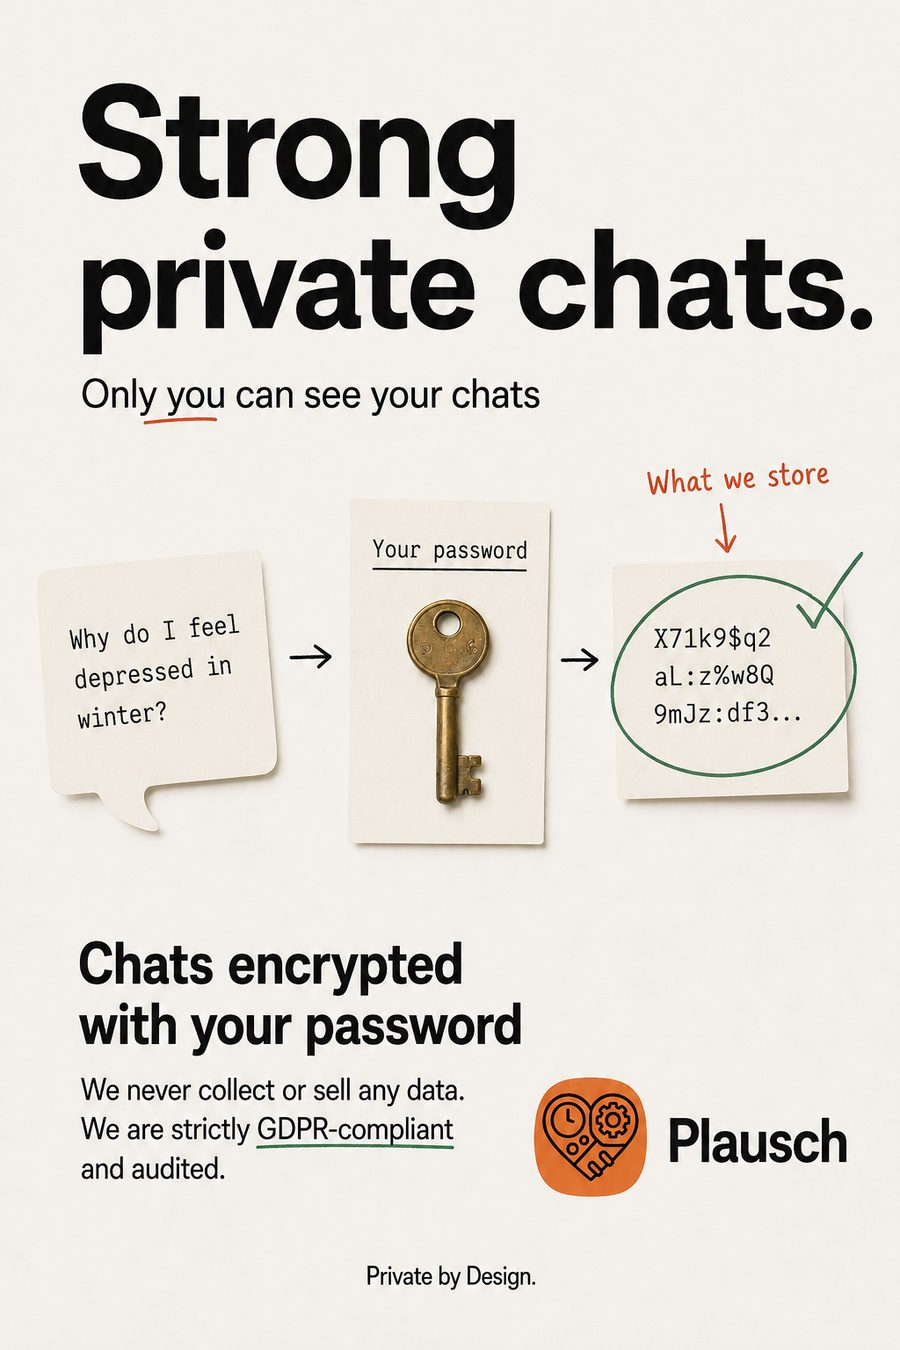
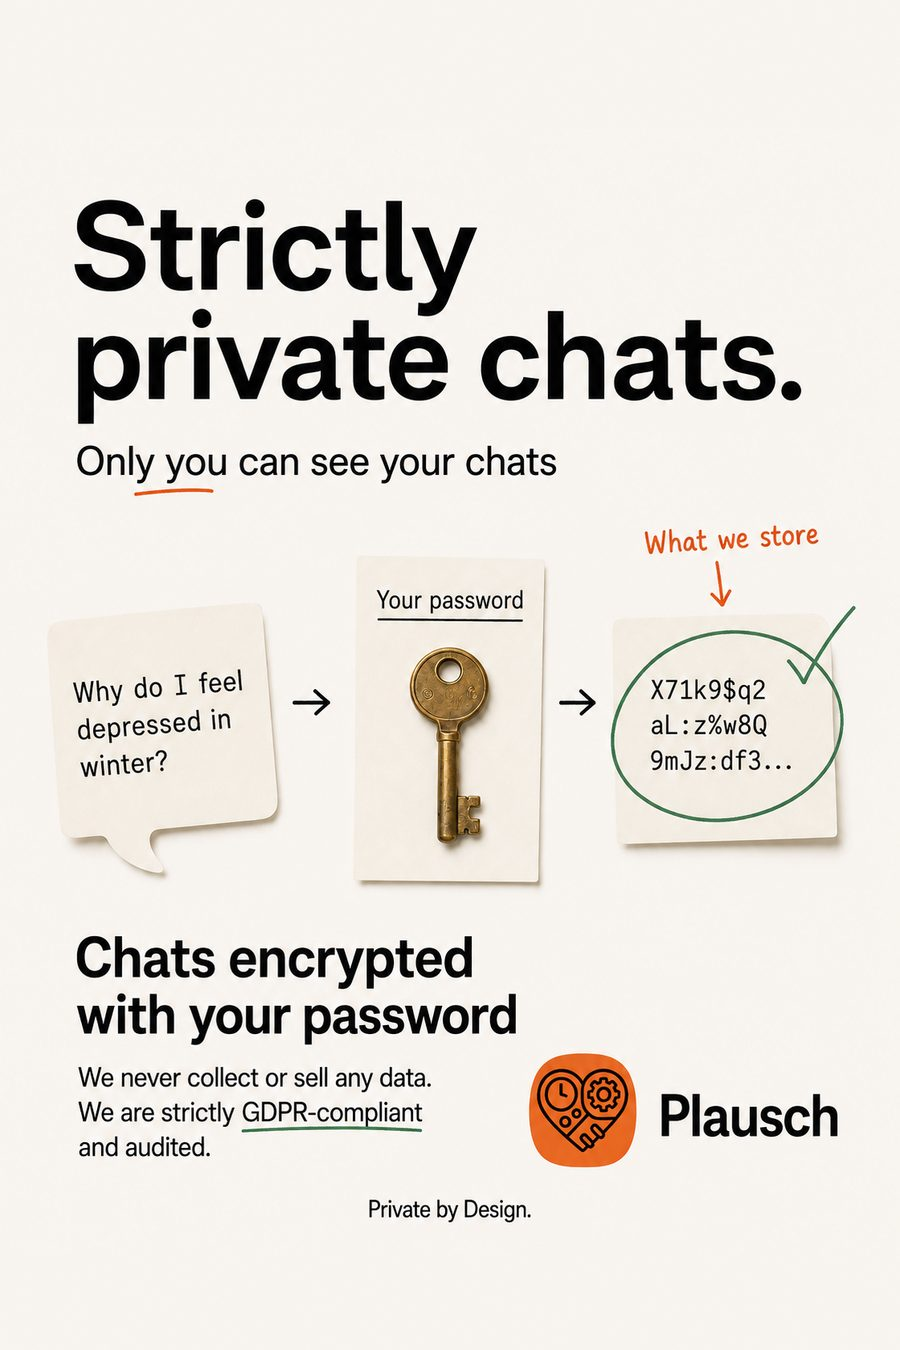
Replace the English privacy poster with the corrected version
Swap in the re-rendered "Strictly private chats." poster, which fixes
the font/formatting problems in the previous "Strong private chats."
version, and update its alt text to match the new headline.

The replacement was supplied at 4:5 while the other four English
posters are 2:3, so dropping it in unchanged would have left one card
a different height from the rest. Cropping to 2:3 was not an option:
only 113px of side whitespace exists where 187px would be needed, so
it would have cut into the headline and the logo.

Instead the artwork is padded vertically to a true 2:3 before being
resized into the set. The paper ground is flat (grain std 0.58, no
gradient top to bottom), so the padding is generated from the measured
paper tone plus matched grain and is seamless. Padding is split 162/119
top/bottom to preserve the 61:39 margin balance the other four use.
Content keeps its full width, so type renders at the same scale as the
neighbouring posters — it simply carries more paper above and below,
since the artwork was composed for a squarer canvas.

Verified against a production build: English still renders exactly one
card size (346x519) with the image ratio matching its card to 0.0000,
so nothing is cropped or letterboxed.

diff --git a/src/sections/PosterCarousel.tsx b/src/sections/PosterCarousel.tsx
@@ -59,7 +59,7 @@ const posterArtwork: Partial<Record<Lang, Artwork>> = {
       noclutter:
         'No app-chaos. A universe of AI models in just one app. ChatGPT, Claude, Gemini, Mistral, Kimi, Qwen and more in one place. Download once.',
       private:
-        'Strong private chats. Only you can see your chats. Your question is stored encrypted with your password. We never collect or sell any data, and we are strictly GDPR-compliant and audited.',
+        'Strictly private chats. Only you can see your chats. Your question is stored encrypted with your password. We never collect or sell any data, and we are strictly GDPR-compliant and audited.',
       notes:
         'All-in-one AI notes. A place for notes from all AIs. Create annotations and notes directly from your conversations while you chat.',
       humanitarian:
